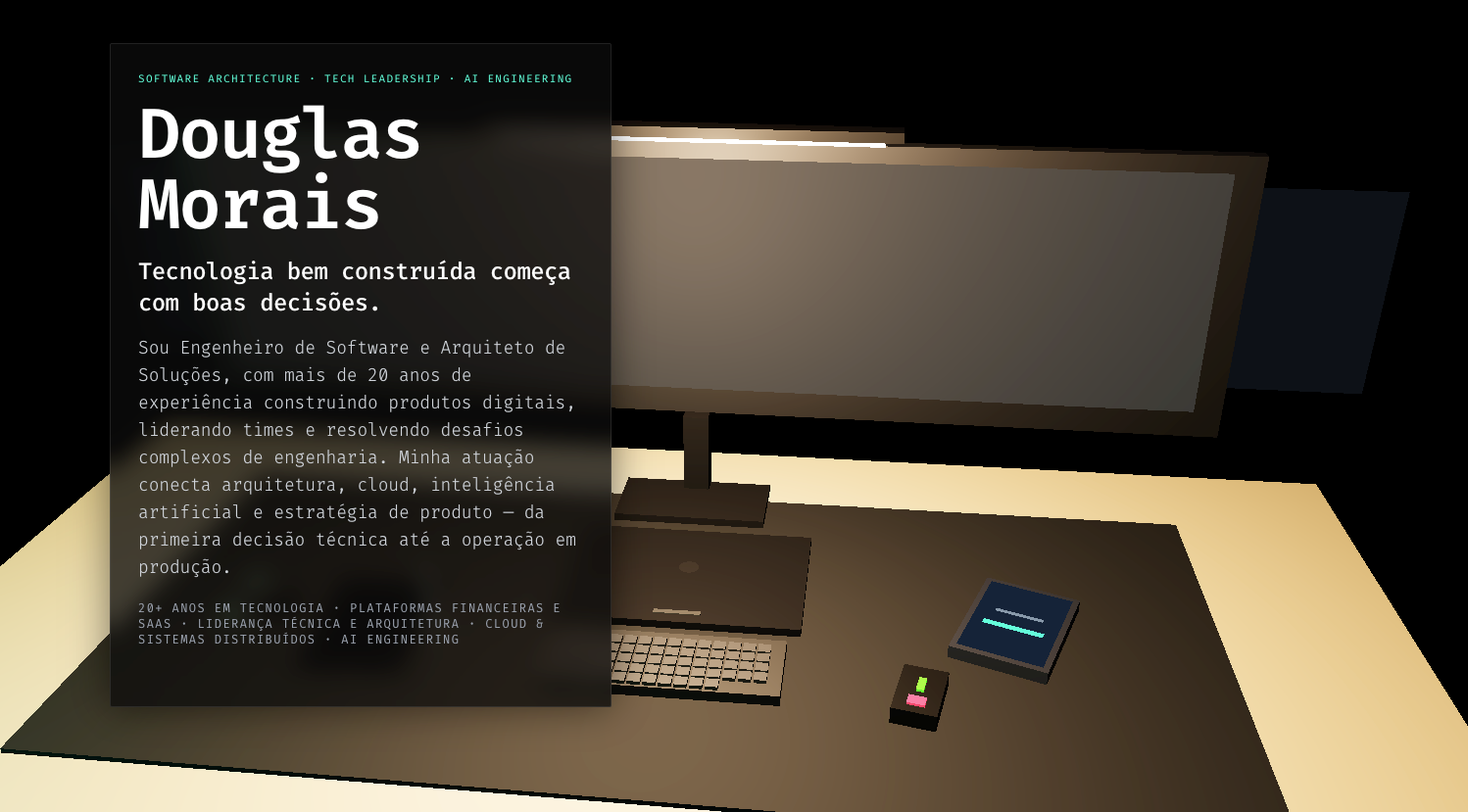
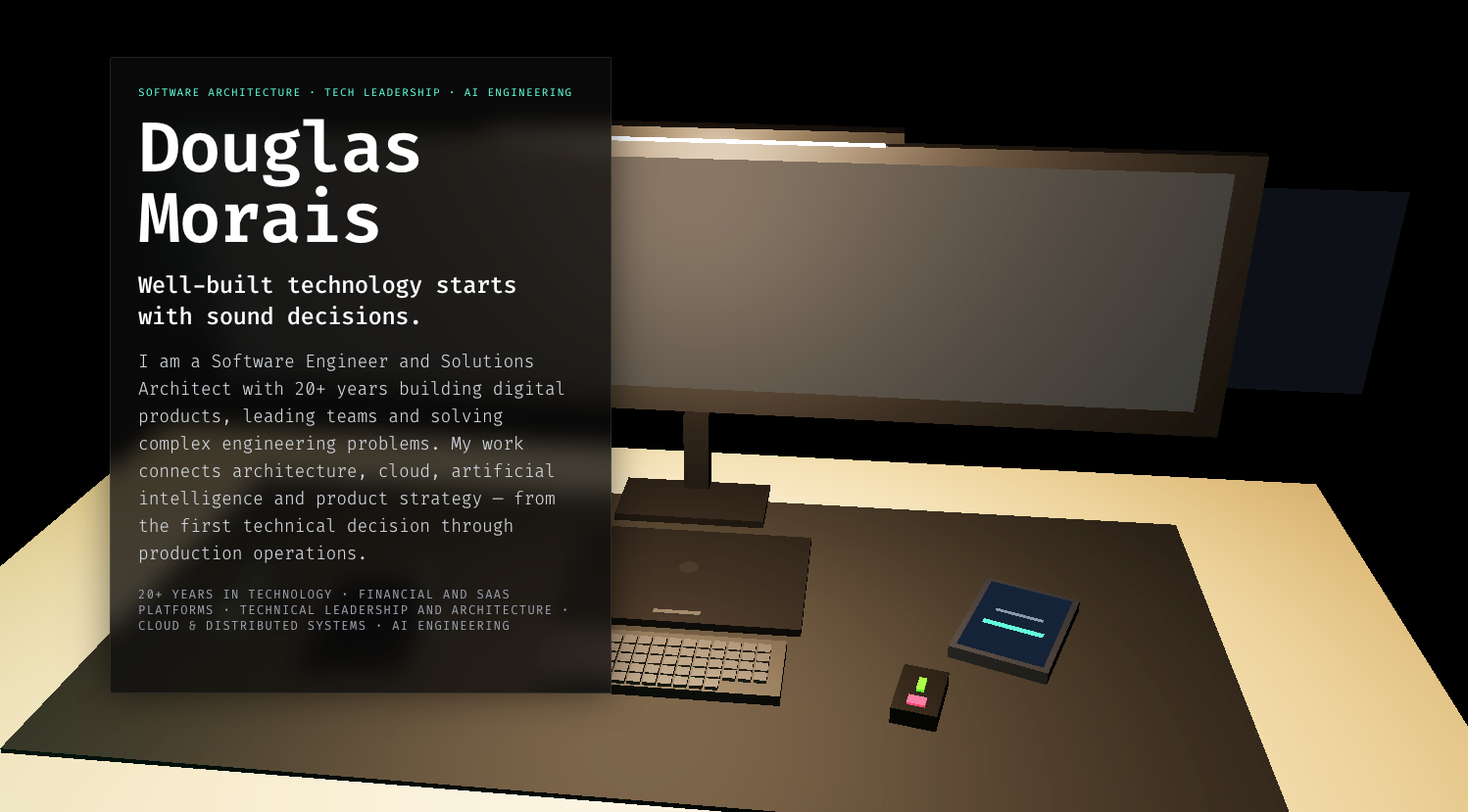
Update profile README: English content, Java in stack, portfolio hero, coffee button

Changed region(s): [[0.0921, 0.3317, 0.3992, 0.8142], [0.0921, 0.0905, 0.3992, 0.3016], [0.0614, 0.8444, 0.4299, 0.8745]]

diff --git a/README.md b/README.md
@@ -7,22 +7,22 @@
 <div align="center">
 
 <a href="https://douglasmorais-arq.vercel.app/" target="_blank">
-  <img src="assets/douglas-morais-hero.png" width="100%" alt="Douglas Morais — Software Architecture · Tech Leadership · AI Engineering. Tecnologia bem construída começa com boas decisões."/>
+  <img src="assets/douglas-morais-hero.png" width="100%" alt="Douglas Morais — Software Architecture · Tech Leadership · AI Engineering. Good technology starts with good decisions."/>
 </a>
 
 <br/>
 
 <a href="https://douglasmorais-arq.vercel.app/" target="_blank">
-  <img src="https://img.shields.io/badge/Explorar%20o%20portf%C3%B3lio-64FFDA?style=for-the-badge&logo=vercel&logoColor=0A0A0A&labelColor=64FFDA" alt="Explorar o portfólio"/>
+  <img src="https://img.shields.io/badge/Explore%20the%20portfolio-64FFDA?style=for-the-badge&logo=vercel&logoColor=0A0A0A&labelColor=64FFDA" alt="Explore the portfolio"/>
 </a>
 <a href="https://www.linkedin.com/in/douglasmoraissouza/" target="_blank">
-  <img src="https://img.shields.io/badge/Conversar%20no%20LinkedIn-0A0A0A?style=for-the-badge&logo=linkedin&logoColor=64FFDA&labelColor=0A0A0A" alt="Conversar no LinkedIn"/>
+  <img src="https://img.shields.io/badge/Connect%20on%20LinkedIn-0A0A0A?style=for-the-badge&logo=linkedin&logoColor=64FFDA&labelColor=0A0A0A" alt="Connect on LinkedIn"/>
 </a>
 <a href="mailto:mr.douglasmorais23@gmail.com">
   <img src="https://img.shields.io/badge/mr.douglasmorais23%40gmail.com-0A0A0A?style=for-the-badge&logo=gmail&logoColor=64FFDA&labelColor=0A0A0A" alt="Email"/>
 </a>
 <a href="https://github.com/mrdouglasmorais?tab=repositories">
-  <img src="https://img.shields.io/badge/A%20prova%20est%C3%A1%20no%20c%C3%B3digo-0A0A0A?style=for-the-badge&logo=github&logoColor=64FFDA&labelColor=0A0A0A" alt="Repositórios"/>
+  <img src="https://img.shields.io/badge/The%20proof%20is%20in%20the%20code-0A0A0A?style=for-the-badge&logo=github&logoColor=64FFDA&labelColor=0A0A0A" alt="The proof is in the code"/>
 </a>
 
 <br/><br/>
@@ -35,13 +35,13 @@
 ---
 
 > [!TIP]
-> **A prova está no código.** Quem contrata pode auditar. Atuo como consultor especialista e arquiteto de soluções para empresas que precisam de sistemas resilientes, arquitetura escalável e IA que realmente opera em produção sem alucinar regras de negócio. Conheça meu trabalho completo em **[douglasmorais-arq.vercel.app](https://douglasmorais-arq.vercel.app/)** ou vamos conversar pelo **[LinkedIn](https://www.linkedin.com/in/douglasmoraissouza/)**.
+> **The proof is in the code.** Hiring teams can audit it. I work as a specialist consultant and solutions architect for companies that need resilient systems, scalable architecture and AI that actually runs in production without hallucinating business rules. See my full work at **[douglasmorais-arq.vercel.app](https://douglasmorais-arq.vercel.app/)** or let's talk on **[LinkedIn](https://www.linkedin.com/in/douglasmoraissouza/)**.
 
 ---
 
-## 🏆 Reconhecimento, Certificações & Badges
+## 🏆 Recognition, Certifications & Badges
 
-Badges oficiais e certificações acadêmicas e de indústria conquistadas ao longo da trajetória:
+Official badges and academic and industry certifications earned along the way:
 
 ### 🎓 Harvard, Stanford & Linux Foundation
 
@@ -55,7 +55,7 @@ Badges oficiais e certificações acadêmicas e de indústria conquistadas ao lo
     </td>
     <td width="20%" valign="top">
       <img src="https://douglasmorais-arq.vercel.app/badges/certificates/CS193p.png" width="120" alt="Stanford University — CS193p" /><br/>
-      <sub><b>Stanford University</b><br/>CS193p iOS Applications</sub>
+      <sub><b>Stanford University</b><br/>CS193p Developing Applications for iOS</sub>
     </td>
     <td width="20%" valign="top">
       <a href="https://douglasmorais-arq.vercel.app/certificates/courses/LFD121.pdf" target="_blank">
@@ -65,12 +65,12 @@ Badges oficiais e certificações acadêmicas e de indústria conquistadas ao lo
     </td>
     <td width="20%" valign="top">
       <img src="https://douglasmorais-arq.vercel.app/badges/certificates/LFEL1006.png" width="120" alt="Linux Foundation — LFEL1006" /><br/>
-      <sub><b>Linux Foundation</b><br/>LFEL1006 OpenSSF Scorecard</sub>
+      <sub><b>Linux Foundation</b><br/>LFEL1006 Securing Projects with OpenSSF Scorecard</sub>
     </td>
     <td width="20%" valign="top">
       <a href="https://douglasmorais-arq.vercel.app/certificates/courses/LFEL1008.pdf" target="_blank">
         <img src="https://douglasmorais-arq.vercel.app/badges/certificates/LFEL1008.png" width="120" alt="Linux Foundation — LFEL1008" /><br/>
-        <sub><b>Linux Foundation</b><br/>LFEL1008 Migrating AI Workflows</sub>
+        <sub><b>Linux Foundation</b><br/>LFEL1008 Migrating AI Workflows Across Platforms</sub>
       </a>
     </td>
   </tr>
@@ -84,44 +84,38 @@ Badges oficiais e certificações acadêmicas e de indústria conquistadas ao lo
     <td width="20%" valign="top">
       <a href="https://douglasmorais-arq.vercel.app/certificates/courses/LFS144.pdf" target="_blank">
         <img src="https://douglasmorais-arq.vercel.app/badges/certificates/LFS144.png" width="120" alt="Linux Foundation — LFS144" /><br/>
-        <sub><b>Linux Foundation</b><br/>LFS144 Intro to Istio Service Mesh</sub>
+        <sub><b>Linux Foundation</b><br/>LFS144 Introduction to Istio Service Mesh</sub>
       </a>
     </td>
     <td width="20%" valign="top">
       <a href="https://douglasmorais-arq.vercel.app/certificates/courses/LFS148.pdf" target="_blank">
         <img src="https://douglasmorais-arq.vercel.app/badges/certificates/LFS148.png" width="120" alt="Linux Foundation — LFS148" /><br/>
-        <sub><b>Linux Foundation</b><br/>LFS148 OpenTelemetry Observability</sub>
+        <sub><b>Linux Foundation</b><br/>LFS148 Getting Started with OpenTelemetry</sub>
       </a>
     </td>
     <td width="20%" valign="top">
       <a href="https://douglasmorais-arq.vercel.app/certificates/courses/LFS158.pdf" target="_blank">
         <img src="https://douglasmorais-arq.vercel.app/badges/certificates/LFS158.png" width="120" alt="Linux Foundation — LFS158" /><br/>
-        <sub><b>Linux Foundation</b><br/>LFS158 Intro to Kubernetes</sub>
-      </a>
-    </td>
-    <td width="20%" valign="top">
-      <a href="https://douglasmorais-arq.vercel.app/" target="_blank">
-        <img src="https://img.shields.io/badge/LINUX%20FOUNDATION-Cloud%20Native-000000?style=for-the-badge&logo=linuxfoundation&logoColor=white" width="120" alt="Linux Foundation Specialist" /><br/>
-        <sub><b>Cloud Native & Security</b><br/>Open Standards & Architecture</sub>
+        <sub><b>Linux Foundation</b><br/>LFS158 Introduction to Kubernetes</sub>
       </a>
     </td>
   </tr>
 </table>
 
-### 🎖 Premiação & Imprensa
+### 🎖 Awards & Press
 
 <table align="center" width="70%">
   <tr align="center">
     <td width="50%" valign="top">
       <a href="https://douglasmorais-arq.vercel.app/certificates/awards/50_to_Follow_2022_HACKER.pdf" target="_blank">
         <img src="https://douglasmorais-arq.vercel.app/badges/awards/50tofollow-badge.png" width="140" alt="Gama Academy — 50 to Follow 2022 Hacker" /><br/>
-        <sub><b>Gama Academy — Award</b><br/>50 to Follow 2022 · Categoria Hacker</sub>
+        <sub><b>Gama Academy — Award</b><br/>50 to Follow 2022 · Hacker category</sub>
       </a>
     </td>
     <td width="50%" valign="top">
       <a href="https://douglasmorais-arq.vercel.app/certificates/press/sucesso-sa.pdf" target="_blank">
-        <img src="https://douglasmorais-arq.vercel.app/badges/press/sucesso-sa-badge.png" width="140" alt="Revista Sucesso SA" /><br/>
-        <sub><b>Revista Sucesso SA — Imprensa</b><br/>Empreendedorismo, Liderança e Negócios</sub>
+        <img src="https://douglasmorais-arq.vercel.app/badges/press/sucesso-sa-badge.png" width="140" alt="Sucesso SA magazine" /><br/>
+        <sub><b>Sucesso SA — Press</b><br/>Entrepreneurship, Leadership & Business</sub>
       </a>
     </td>
   </tr>
@@ -129,117 +123,89 @@ Badges oficiais e certificações acadêmicas e de indústria conquistadas ao lo
 
 ---
 
-## 🧭 Do problema até quem usa
+## 🧭 From problem to user
 
-Quatro passos. Um sistema operável, resiliente e escalável:
+Four steps. One system that is operable, resilient and scalable:
 
 ```
-┌──────────────┐     ┌──────────────┐     ┌──────────────┐     ┌──────────────┐
-│   01. Foco   │ ──> │02. Estrutura │ ──> │03. Plataforma│ ──> │04. Utilização│
-│   PROBLEMA   │     │ ARQUITETURA  │     │     AWS      │     │ EXPERIÊNCIA  │
-│  O que deve  │     │  Serviços,   │     │  Entrega,    │     │  A tela ou   │
-│  funcionar   │     │dados, limites│     │  telemetria  │     │   o agente   │
-└──────────────┘     └──────────────┘     └──────────────┘     └──────────────┘
+┌────────────────────────────┐     ┌────────────────────────────┐     ┌────────────────────────────┐     ┌────────────────────────────┐
+│        01. PROBLEM         │ ──▶ │      02. ARCHITECTURE      │ ──▶ │        03. PLATFORM        │ ──▶ │       04. EXPERIENCE       │
+│       What must work       │     │   Services, data, limits   │     │  AWS, delivery, telemetry  │     │  The screen or the agent   │
+└────────────────────────────┘     └────────────────────────────┘     └────────────────────────────┘     └────────────────────────────┘
 ```
 
-| Etapa | Foco de Decisão | Entrega de Valor |
+| Step | Decision focus | Delivered value |
 |---|---|---|
-| **01. Problema** | Domínio do negócio, requisitos de negócio e trade-offs técnicos | Clareza antes da primeira linha de código |
-| **02. Arquitetura** | Clean Architecture, DDD, isolamento de fronteiras, idempotência e mensageria | Sistemas desacoplados que toleram falhas |
-| **03. Plataforma** | Cloud AWS, Kubernetes (EKS), Serverless, Terraform e Observabilidade | Infraestrutura como código com FinOps e telemetria |
-| **04. Experiência** | Interfaces reativas (Next.js/React), mobile (Flutter) ou Agentes Autônomos (MCP) | A ponta da entrega — visual ou orquestrada por IA |
+| **01. Problem** | Business domain, business requirements and technical trade-offs | Clarity before the first line of code |
+| **02. Architecture** | Clean Architecture, DDD, boundary isolation, idempotency and messaging | Decoupled systems that tolerate failure |
+| **03. Platform** | AWS cloud, Kubernetes (EKS), serverless, Terraform and observability | Infrastructure as code with FinOps and telemetry |
+| **04. Experience** | Reactive interfaces (Next.js/React), mobile (Flutter) or autonomous agents (MCP) | The delivery edge — visual or orchestrated by AI |
 
 ---
 
-## 🧠 Onde a IA entra: O modelo não segura o sistema. A arquitetura segura.
+## 🧠 Where AI fits: the model doesn't hold the system. The architecture does.
 
-> Chamadas probabilísticas de modelos de linguagem precisam ficar **completamente isoladas** das regras determinísticas de negócio. É assim que a IA gera valor real sem colocar em risco a conformidade financeira, fiscal ou de domínio.
+> Probabilistic language-model calls must stay **completely isolated** from deterministic business rules. That is how AI creates real value without putting financial, tax or domain compliance at risk.
 
 ```text
-                 ┌──────────────────────────────────────────────┐
-                 │          User / Client / Web / Mobile        │
-                 └──────────────────────┬───────────────────────┘
-                                        │
-                 ┌──────────────────────▼───────────────────────┐
-                 │            API / Domain Gateway              │
-                 │   Deterministic Business Rules, Auth & RBAC  │
-                 └──────────────────────┬───────────────────────┘
-                                        │
-                 ┌──────────────────────▼───────────────────────┐
-                 │           AI Orchestration Layer             │
-                 │   Telemetry Context · Guardrails · MCP Tools │
-                 └──────────────┬────────────────┬──────────────┘
-                                │                │
-              ┌─────────────────▼────┐    ┌──────▼───────────────────────┐
-              │ Knowledge & Search   │    │  LLM Providers (Bedrock/etc) │
-              │ RAG · Embeddings     │    │  Synthesizes only at the end │
-              └──────────────────────┘    └──────────────────────────────┘
+┌────────────────────────────────────────────────────────────┐
+│                User / Client / Web / Mobile                │
+└───────────────────────────────┬────────────────────────────┘
+                                │
+                                ▼
+┌────────────────────────────────────────────────────────────┐
+│                    API / Domain Gateway                    │
+│         Deterministic business rules, auth & RBAC          │
+└───────────────────────────────┬────────────────────────────┘
+                                │
+                                ▼
+┌────────────────────────────────────────────────────────────┐
+│                   AI Orchestration Layer                   │
+│         Telemetry context · Guardrails · MCP tools         │
+└───────────────┬─────────────────────────────┬──────────────┘
+                │                             │
+                ▼                             ▼
+┌──────────────────────────┐      ┌──────────────────────────┐
+│    Knowledge & Search    │      │      LLM Providers       │
+│     RAG · Embeddings     │      │  Writes only at the end  │
+└──────────────────────────┘      └──────────────────────────┘
 ```
 
-- **Além do RAG:** Evidência, versão e controle de permissão. A resposta só é emitida se o sistema audita e comprova de onde veio o dado.
-- **SignalGate & Telemetria:** Telemetria vira contexto operacional. Jev/Orquestrador decide a rota e valida a evidência; o código executa. A IA não aperta o botão às cegas.
-- **Agentes em Produção:** Embeddings e busca vetorial encontram o contexto exato. Roteamento de agentes especialistas com controle estrito de latência e consumo de tokens. O LLM escreve só no final.
+- **Beyond RAG:** Evidence, versioning and permission control. An answer is only released when the system shows where it came from.
+- **SignalGate & Telemetry:** Telemetry becomes operational context. Jev decides the route and validates the evidence; the code executes. AI never presses the button blindly.
+- **Agents in production:** Embeddings and vector search find the exact context. Specialist agent routing with strict latency and token-cost control. The LLM writes only at the end.
 
 ---
 
-## 🛠 Stack Tecnológico & Arsenal de Engenharia
+## 🛠 Technology Stack & Engineering Arsenal
 
 <div align="center">
 
-### Linguagens, Frameworks & Frontend
+### Languages, Frameworks & Frontend
 
-<img src="https://skillicons.dev/icons?i=ts,js,cs,dotnet,react,nextjs,nodejs,python,flutter,dart&perline=10" alt="Linguagens e Frameworks"/>
+<img src="https://skillicons.dev/icons?i=ts,js,java,cs,dotnet,react,nextjs,nodejs,python,flutter,dart&perline=11" alt="Languages and frameworks"/>
 
-### Cloud, Infraestrutura, DevOps & Dados
+### Cloud, Infrastructure, DevOps & Data
 
-<img src="https://skillicons.dev/icons?i=aws,docker,kubernetes,terraform,postgres,dynamodb,redis,graphql,kafka,githubactions&perline=10" alt="Cloud, Infra e Dados"/>
+<img src="https://skillicons.dev/icons?i=aws,docker,kubernetes,terraform,postgres,dynamodb,redis,graphql,kafka,githubactions&perline=10" alt="Cloud, infrastructure and data"/>
 
 </div>
 
-| Camada | Tecnologias & Padrões |
+| Layer | Technologies & Patterns |
 |---|---|
-| **Arquitetura & Engenharia** | Clean Architecture, Domain-Driven Design (DDD), CQRS, Event-Driven, Microservices, C4 Model |
-| **Backend & APIs** | C# .NET 9, Node.js, TypeScript, Python, GraphQL, REST APIs, gRPC, Outbox Pattern |
+| **Architecture & Engineering** | Clean Architecture, Domain-Driven Design (DDD), CQRS, Event-Driven, Microservices, C4 Model |
+| **Backend & APIs** | Java, C# .NET 9, Node.js, TypeScript, Python, GraphQL, REST APIs, gRPC, Outbox Pattern |
 | **Cloud & DevOps (AWS)** | AWS Lambda, ECS / Fargate, EKS (Kubernetes), EventBridge, S3, Terraform, CI/CD Actions |
-| **Inteligência Artificial** | Model Context Protocol (MCP), Amazon Bedrock, RAG, Embeddings, Multi-Agent Systems, Guardrails |
-| **Bancos de Dados & Caching** | PostgreSQL, DynamoDB, SQL Server, Redis, OpenSearch, PgVector |
+| **Artificial Intelligence** | Model Context Protocol (MCP), Amazon Bedrock, RAG, Embeddings, Multi-Agent Systems, Guardrails |
+| **Databases & Caching** | PostgreSQL, DynamoDB, SQL Server, Redis, OpenSearch, PgVector |
 | **Frontend & Mobile** | React, Next.js (App Router), TypeScript, Tailwind CSS, Flutter, React Three Fiber (3D) |
-| **Observabilidade & Métricas** | OpenTelemetry (OTel), Datadog, DORA Metrics, Tracing Distribuído, SonarQube |
+| **Observability & Metrics** | OpenTelemetry (OTel), Datadog, DORA Metrics, Distributed Tracing, SonarQube |
 
 ---
 
-## 🚀 Projetos & Soluções em Destaque
+## 🏢 Companies & Brands I've Worked With
 
-### 🏢 Habitvs — PropTech SaaS & Ecossistema de IA
-*Idealização do produto e desenho da solução de ponta a ponta.*
-- **Arquitetura:** Portal web, app mobile em Flutter, automação WhatsApp, ERP e pipeline de oportunidades imobiliárias integradas.
-- **IA Integrada:** Plataforma aberta via **MCP (Model Context Protocol)** para operação de agentes de inteligência artificial.
-- **Stack:** .NET 9, GraphQL, Next.js, Flutter, AWS, Docker, EKS e Terraform.
-
-### 📈 AssetMind AI — Plataforma Multiagente para Mercado Financeiro
-*Orquestração autônoma com controle determinístico de risco.*
-- **Engenharia:** Agentes especialistas em ações, criptoativos e FIIs que operam sob cálculo de evidências.
-- **Otimização:** Controle estrito de orçamento de tokens, telemetria de chamadas e síntese final via LLM.
-
-### 🏙 Garden Park Home Club — Experiência 3D Imersiva
-*Jornada digital e interativa pelo empreendimento imobiliário em Balneário Camboriú.*
-- **Engenharia:** Obra, fachada, projeção solar e planta humanizada navegável — do render 3D ao detalhe da unidade.
-- **Stack:** Next.js · React Three Fiber · Three.js · Framer Motion.
-
-### 💳 EmanaPay — Natura &Co
-*Serviços financeiros digitais de alta confiabilidade.*
-- **Engenharia:** Arquitetura Serverless com AWS Lambda, EventBridge, DynamoDB e mensageria de alta vazão para transações financeiras.
-- **Confiabilidade:** Observabilidade ponta a ponta com Datadog e rastreamento distribuído.
-
-### 🍺 Stella Signature — AB InBev
-*E-commerce internacional de luxo.*
-- **Engenharia:** Frontend moderno em React integrado a headless Drupal e Shopify para múltiplos mercados internacionais, com animações e microinterações fluidas.
-
----
-
-## 🏢 Empresas e Marcas com as quais Colaborei
-
-Empresas onde liderei projetos, atuei como consultor especialista, ensinei ou mentorei:
+Companies where I led projects, worked as a specialist consultant, taught or mentored:
 
 <div align="center">
   <p align="center">
@@ -250,27 +216,27 @@ Empresas onde liderei projetos, atuei como consultor especialista, ensinei ou me
 
 ---
 
-## 📊 Estatísticas & Atividade no GitHub
+## 📊 GitHub Stats & Activity
 
 <div align="center">
 
 <a href="https://github.com/mrdouglasmorais">
-  <img height="175" src="https://github-readme-stats.vercel.app/api?username=mrdouglasmorais&show_icons=true&theme=tokyonight&hide_border=true&rank_icon=github&include_all_commits=true" alt="Estatísticas do GitHub"/>
-  <img height="175" src="https://github-readme-stats.vercel.app/api/top-langs/?username=mrdouglasmorais&layout=compact&langs_count=8&theme=tokyonight&hide_border=true" alt="Linguagens mais utilizadas"/>
+  <img height="175" src="https://github-readme-stats.vercel.app/api?username=mrdouglasmorais&show_icons=true&theme=tokyonight&hide_border=true&rank_icon=github&include_all_commits=true" alt="GitHub statistics"/>
+  <img height="175" src="https://github-readme-stats.vercel.app/api/top-langs/?username=mrdouglasmorais&layout=compact&langs_count=8&theme=tokyonight&hide_border=true" alt="Most used languages"/>
 </a>
 
 <br/>
 
-<img width="80%" src="https://streak-stats.demolab.com?user=mrdouglasmorais&theme=tokyonight&hide_border=true" alt="Sequência de contribuições"/>
+<img width="80%" src="https://streak-stats.demolab.com?user=mrdouglasmorais&theme=tokyonight&hide_border=true" alt="Contribution streak"/>
 
 <br/><br/>
 
-### 🐍 Histórico de Contribuições
+### 🐍 Contribution History
 
 <picture>
   <source media="(prefers-color-scheme: dark)" srcset="https://raw.githubusercontent.com/mrdouglasmorais/mrdouglasmorais/output/github-contribution-grid-snake-dark.gif" />
   <source media="(prefers-color-scheme: light)" srcset="https://raw.githubusercontent.com/mrdouglasmorais/mrdouglasmorais/output/github-contribution-grid-snake.gif" />
-  <img alt="Snake animada comendo o grid de contribuições" src="https://raw.githubusercontent.com/mrdouglasmorais/mrdouglasmorais/output/github-contribution-grid-snake.gif" width="100%" />
+  <img alt="Animated snake eating the contribution grid" src="https://raw.githubusercontent.com/mrdouglasmorais/mrdouglasmorais/output/github-contribution-grid-snake.gif" width="100%" />
 </picture>
 
 </div>
@@ -279,12 +245,12 @@ Empresas onde liderei projetos, atuei como consultor especialista, ensinei ou me
 
 <div align="center">
 
-## 🤝 Vamos Conversar?
+## 🤝 Let's Talk
 
-Seja para desenhar uma nova arquitetura do zero, destravar um gargalo crítico em sistemas distribuídos ou colocar IA para rodar em produção com segurança e governança:
+Whether you want to design a new architecture from scratch, unblock a critical bottleneck in distributed systems, or get AI running in production with security and governance:
 
 <a href="https://douglasmorais-arq.vercel.app/" target="_blank">
-  <img src="https://img.shields.io/badge/Portf%C3%B3lio%20Oficial-douglasmorais--arq.vercel.app-06B6D4?style=for-the-badge&logo=vercel&logoColor=white" alt="Portfólio Oficial"/>
+  <img src="https://img.shields.io/badge/Official%20Portfolio-douglasmorais--arq.vercel.app-06B6D4?style=for-the-badge&logo=vercel&logoColor=white" alt="Official portfolio"/>
 </a>
 <a href="https://www.linkedin.com/in/douglasmoraissouza/" target="_blank">
   <img src="https://img.shields.io/badge/LinkedIn-Douglas%20Morais-0A66C2?style=for-the-badge&logo=linkedin&logoColor=white" alt="LinkedIn"/>
@@ -295,18 +261,16 @@ Seja para desenhar uma nova arquitetura do zero, destravar um gargalo crítico e
 
 <br/><br/>
 
-**Um café para a próxima decisão de arquitetura.**
+**A coffee for the next architecture decision.**
 
 <a href="https://www.buymeacoffee.com/douglasmorais23" target="_blank" rel="noopener">
   <img src="https://cdn.buymeacoffee.com/buttons/v2/default-yellow.png" height="60" width="217" alt="Buy me a coffee" />
 </a>
 
-<script type="text/javascript" src="https://cdnjs.buymeacoffee.com/1.0.0/button.prod.min.js" data-name="bmc-button" data-slug="douglasmorais23" data-color="#FFDD00" data-emoji=""  data-font="Cookie" data-text="Buy me a coffee" data-outline-color="#000000" data-font-color="#000000" data-coffee-color="#ffffff" ></script>
-
 <br/><br/>
 
 <a href="https://douglasmorais-arq.vercel.app/">
-  <img src="https://readme-typing-svg.demolab.com?font=Fira+Code&weight=700&size=24&duration=3000&pause=900&color=64FFDA&center=true&vCenter=true&width=900&height=80&lines=May+the+Force+be+with+your+code.;Arquitetura+que+aguenta+a+produ%C3%A7%C3%A3o.;Decis%C3%B5es+claras.+Sistemas+que+ficam+de+p%C3%A9.;Vamos+construir+algo+que+funciona." alt="May the Force be with your code. Arquitetura que aguenta a produção. Decisões claras. Sistemas que ficam de pé. Vamos construir algo que funciona."/>
+  <img src="https://readme-typing-svg.demolab.com?font=Fira+Code&weight=700&size=24&duration=3000&pause=900&color=64FFDA&center=true&vCenter=true&width=900&height=80&lines=May+the+Force+be+with+your+code.;Architecture+that+survives+production.;Clear+decisions.+Systems+that+stand.;Let%27s+build+something+that+works." alt="May the Force be with your code. Architecture that survives production. Clear decisions. Systems that stand. Let's build something that works."/>
 </a>
 
 <br/><br/>
@@ -316,11 +280,11 @@ Seja para desenhar uma nova arquitetura do zero, destravar um gargalo crítico e
 <br/><br/>
 
 <a href="https://www.linkedin.com/in/douglasmoraissouza/">
-  <img src="https://img.shields.io/badge/Bora%20conversar-0A0A0A?style=for-the-badge&logo=linkedin&logoColor=64FFDA&labelColor=0A0A0A" alt="Bora conversar"/>
+  <img src="https://img.shields.io/badge/Let%27s%20connect-0A0A0A?style=for-the-badge&logo=linkedin&logoColor=64FFDA&labelColor=0A0A0A" alt="Let's connect"/>
 </a>
 
 <br/><br/>
 
-<img src="https://capsule-render.vercel.app/api?type=waving&color=0:06B6D4,45:312E81,100:050816&height=160&section=footer&text=Douglas%20Morais&fontSize=30&fontColor=F8FAFC&fontAlignY=40&animation=twinkling" width="100%" alt="Douglas Morais — rodapé"/>
+<img src="https://capsule-render.vercel.app/api?type=waving&color=0:06B6D4,45:312E81,100:050816&height=160&section=footer&text=Douglas%20Morais&fontSize=30&fontColor=F8FAFC&fontAlignY=40&animation=twinkling" width="100%" alt="Douglas Morais — footer"/>
 
 </div>
